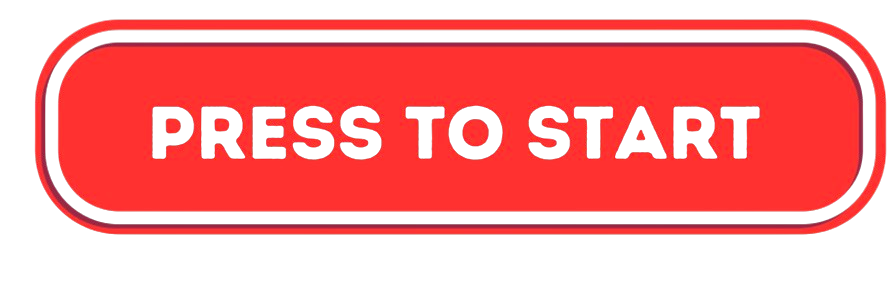
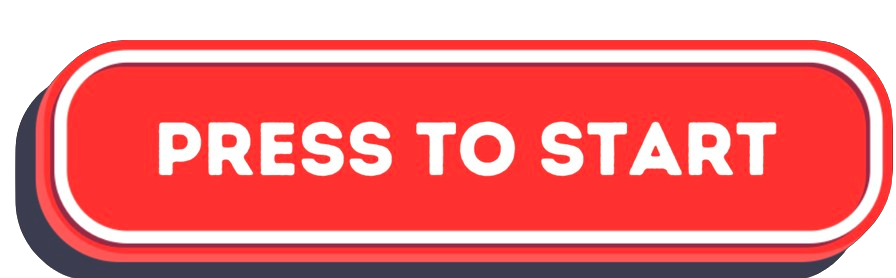
Add start button

diff --git a/StartButton.java b/StartButton.java
@@ -1,0 +1,38 @@
+import greenfoot.*;
+
+public class StartButton extends Actor
+{
+    private GreenfootImage img1 = new GreenfootImage("start_button.png");
+    private GreenfootImage img2 = new GreenfootImage("start_button1.png");
+    private boolean showFirst = true;
+    private SimpleTimer animationTimer = new SimpleTimer();
+    private GreenfootSound clickSound = new GreenfootSound("button_click.mp3");
+
+    public StartButton()
+    {
+        img1.scale(240, 80);
+        img2.scale(240, 80);
+        setImage(img1);
+        animationTimer.mark();
+    }
+
+    public void act()
+    {
+        animate();
+
+        if (Greenfoot.mouseClicked(this)) {
+            clickSound.play(); // optional sound
+            Greenfoot.setWorld(new MyWorld());
+        }
+    }
+
+    private void animate()
+    {
+        if (animationTimer.millisElapsed() > 400)
+        {
+            setImage(showFirst ? img2 : img1);
+            showFirst = !showFirst;
+            animationTimer.mark();
+        }
+    }
+}

diff --git a/TitleScreen.java b/TitleScreen.java
@@ -21,6 +21,10 @@ public class TitleScreen extends World
         // Create a new world with 600x400 cells with a cell size of 1x1 pixels.
         super(600, 400, 1);
         
+        //Add startButton
+        StartButton startButton = new StartButton();
+        addObject(startButton, getWidth()/2, getHeight()-50);
+        
         for(int i=0; i<bgFrames.length; i++)
         {
             bgFrames[i] = new GreenfootImage("title_bg" + (i + 1) + ".png");
@@ -41,11 +45,6 @@ public class TitleScreen extends World
             bgIndex = (bgIndex +1) % bgFrames.length;
             setBackground(bgFrames[bgIndex]);
             bgTimer.mark();
-        }
-        //Start the game if user presses the space bar
-        if(Greenfoot.isKeyDown("space")){
-            MyWorld gameWorld = new MyWorld();
-            Greenfoot.setWorld(gameWorld);
         }
     }
 }
